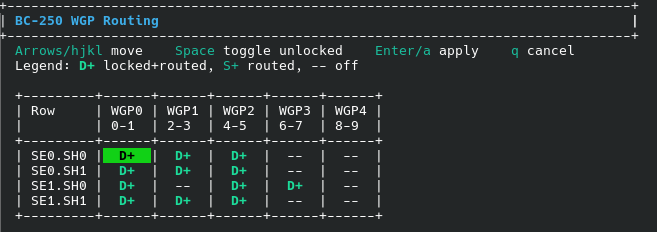
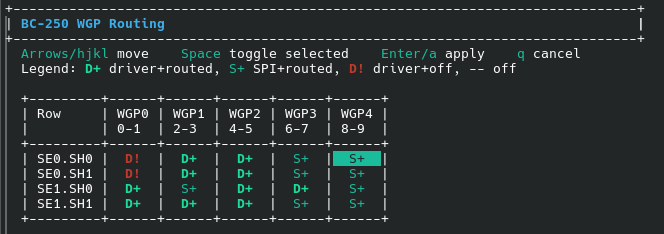
feat(ui)!: simplify WGP UX and auto-sudo flow
- Rename menu actions:
  - f = Enable all CUs
  - t = Enable default CUs
- Simplify legend/status terms:
  - D+ = driver+routed
  - S+ = SPI+routed
  - D! = driver+off
- Show a single CU total line in the dashboard.
- Allow toggling/disabling WGPs previously treated as driver-locked.
- Remove CU alias commands; keep controls WGP-only.
- Add auto-sudo re-exec with clear reason messages.
- Preserve UMR, UMR_ASIC, and UMR_INSTANCE across sudo relaunch.
- Update README/docs and refresh UI screenshots.

BREAKING CHANGE: enable-cu and disable-cu were removed.
Use enable-wgp/disable-wgp (or enable all/disable all) instead.

diff --git a/README.md b/README.md
@@ -51,6 +51,9 @@ Running the script without a command opens the menu.
 
 If `umr` is missing, the UI warns you and asks once whether it should try to install it.
 
+Root-required actions auto re-run with `sudo` when available, with a short
+reason printed before re-launch.
+
 ---
 
 ## Dashboard and editor
@@ -90,12 +93,14 @@ Each row has five WGP positions:
 
 | Marker | Meaning | Notes |
 | --- | --- | --- |
-| `D+` | Driver topology WGP, currently routed | Factory-enabled at driver boot. These form the 24 CU layout. |
-| `S+` | SPI-routed WGP only | Enabled by the live routing table, not part of the driver boot topology. |
-| `D!` | Driver topology WGP, not routed | Unsafe or blocked state. The script warns and refuses unsafe live disables. |
+| `D+` | Driver+routed | On in the amdgpu boot CU map and also routed now. |
+| `S+` | SPI+routed | Routed now, but not in the amdgpu boot CU map. |
+| `D!` | Driver+off | On in the amdgpu boot CU map, but off in current SPI routing. |
 | `--` | Off | Not currently routed. |
 
-`D+` entries are the factory WGPs reported by the driver when it booted. They are the reference point for the factory 24 CU configuration.
+`D+` entries are the factory WGPs reported by the amdgpu boot CU map. They are the reference point for the factory 24 CU configuration.
+
+The dashboard footer shows one summary line: `CUs active & routed : X/40`.
 
 ---
 
@@ -105,16 +110,16 @@ The UI is designed so that write operations are reviewable. Pressing an action k
 
 | Key | Menu label | Clear name | What happens |
 | --- | --- | --- | --- |
-| `e` | Edit WGP table | Custom WGP editor | Opens the WGP table editor. Toggle unlocked WGPs, then press `Enter` or `a` to review and apply the target table. |
-| `f` | Full dispatch | Full 40 CU dispatch | Builds a target table where all 20 WGPs are routed. The table is written only after you accept the safety prompt and confirm the change. |
-| `t` | Driver dispatch | Restore factory WGPs | Builds a target table from the driver boot topology. This returns routing to the factory 24 CU layout after confirmation. |
+| `e` | Edit WGP table | Custom WGP editor | Opens the WGP table editor. Toggle WGPs, then press `Enter` or `a` to review and apply the target table. |
+| `f` | Enable all CUs | Full 40 CU dispatch | Builds a target table where all 20 WGPs are routed. The table is written only after you accept the safety prompt and confirm the change. |
+| `t` | Enable default CUs | Restore factory WGPs | Builds a target table from the amdgpu boot CU map. This returns routing to the factory 24 CU layout after confirmation. |
 | `w` | Write table | Save current table | Saves the current live table to `/etc/bc250-cu-live-manager.conf`. This prepares it for boot restore, but does not install the service by itself. |
 | `i` | Install service | Enable boot restore | Installs and enables the systemd service that reapplies the saved table on boot. It uses the table saved by `Write table`. |
 | `u` | Uninstall service | Remove boot restore | Disables and removes the boot service and saved config. |
 | `q` | Quit | Exit | Leaves the current live state as it is until reboot or until another action changes it. |
 
 > [!NOTE]
-> Full dispatch and Restore factory WGPs are live actions, but they are not applied just by pressing `f` or `t`. The script first shows the target table, then asks for confirmation. Only after confirmation are the registers updated.
+> Enable all CUs and Enable default CUs are live actions, but they are not applied just by pressing `f` or `t`. The script first shows the target table, then asks for confirmation. Only after confirmation are the registers updated.
 
 ---
 
@@ -124,11 +129,11 @@ The UI is designed so that write operations are reviewable. Pressing an action k
 | --- | --- |
 | Arrow keys | Move around the table |
 | `h` `j` `k` `l` | Move using Vim-style keys |
-| `Space` | Toggle the selected unlocked WGP |
+| `Space` | Toggle the selected WGP |
 | `Enter` or `a` | Review and apply the selected table |
 | `q` | Cancel and return to the menu |
 
-Driver-active WGPs cannot be disabled live. The editor keeps those entries locked to avoid unsafe live disable paths.
+Driver-topology WGPs can also be toggled live. `D!` means driver+off.
 
 ---
 
@@ -156,7 +161,7 @@ This applies the 40 CU table, saves that live table, then installs the systemd s
 Open UI -> press t -> type accept -> review target table -> confirm y
 ```
 
-This restores the WGP routing table to the driver boot topology, which is the factory 24 CU layout.
+This restores the WGP routing table to the amdgpu boot CU map, which is the factory 24 CU layout.
 
 To keep the factory layout on future boots, either uninstall the boot service with `u`, or press `w` after restoring so the factory table becomes the saved boot table.
 
@@ -319,21 +324,16 @@ sudo ./bc250-cu-live-manager.sh status
 # Enable all supported WGPs: 40 CUs after confirmation
 sudo ./bc250-cu-live-manager.sh enable all
 
-# Restore the driver boot topology: factory 24 CUs after confirmation
+# Restore the amdgpu boot CU map: factory 24 CUs after confirmation
 sudo ./bc250-cu-live-manager.sh stock-dispatch
 ```
 
-### Target a single WGP or CU pair
+### Target specific WGP pairs
 
 ```bash
 sudo ./bc250-cu-live-manager.sh enable-wgp 1.0.4
 sudo ./bc250-cu-live-manager.sh disable-wgp 1.0.4
-
-sudo ./bc250-cu-live-manager.sh enable-cu 1.0.8
-sudo ./bc250-cu-live-manager.sh disable-cu 1.0.8
 ```
-
-`enable-cu` and `disable-cu` still operate at WGP granularity. For example, CU `8` maps to WGP `4`, which controls CU `8` and CU `9` together.
 
 ### Boot restore commands
 
@@ -395,6 +395,14 @@ No kernel patch is required for this workflow.
 
 This script writes live dispatch registers directly through UMR. Kernel patch material is still useful for research and alternate workflows, but it is not required for this tool.
 
+If you use external scripts such as `cu-map.sh`, note that they can rely on
+CU topology data exposed by the amdgpu module. On BC-250, that module view can
+be misleading without the kernel patch that overrides the default CU map.
+
+This live manager does not depend on that module-reported CU map for dispatch
+changes. It reads and writes live BC-250 routing registers through UMR, so the
+routing state shown here is the active runtime state.
+
 ---
 
 ## Safety behavior
@@ -402,8 +410,7 @@ This script writes live dispatch registers directly through UMR. Kernel patch ma
 - Write actions show a safety disclaimer unless `--yes` is used.
 - Interactive dispatch actions show the current table, the target table, and the proposed WGP changes before applying.
 - Type `accept` for the safety disclaimer, then confirm the dispatch plan with `y`.
-- Live disable paths are blocked when they would disable driver-active WGPs.
-- Driver-active WGPs are treated as locked in the editor.
+- Live disable paths are allowed, including driver-topology WGPs.
 - Boot persistence only happens after a table is saved and the service is installed.
 
 ---
